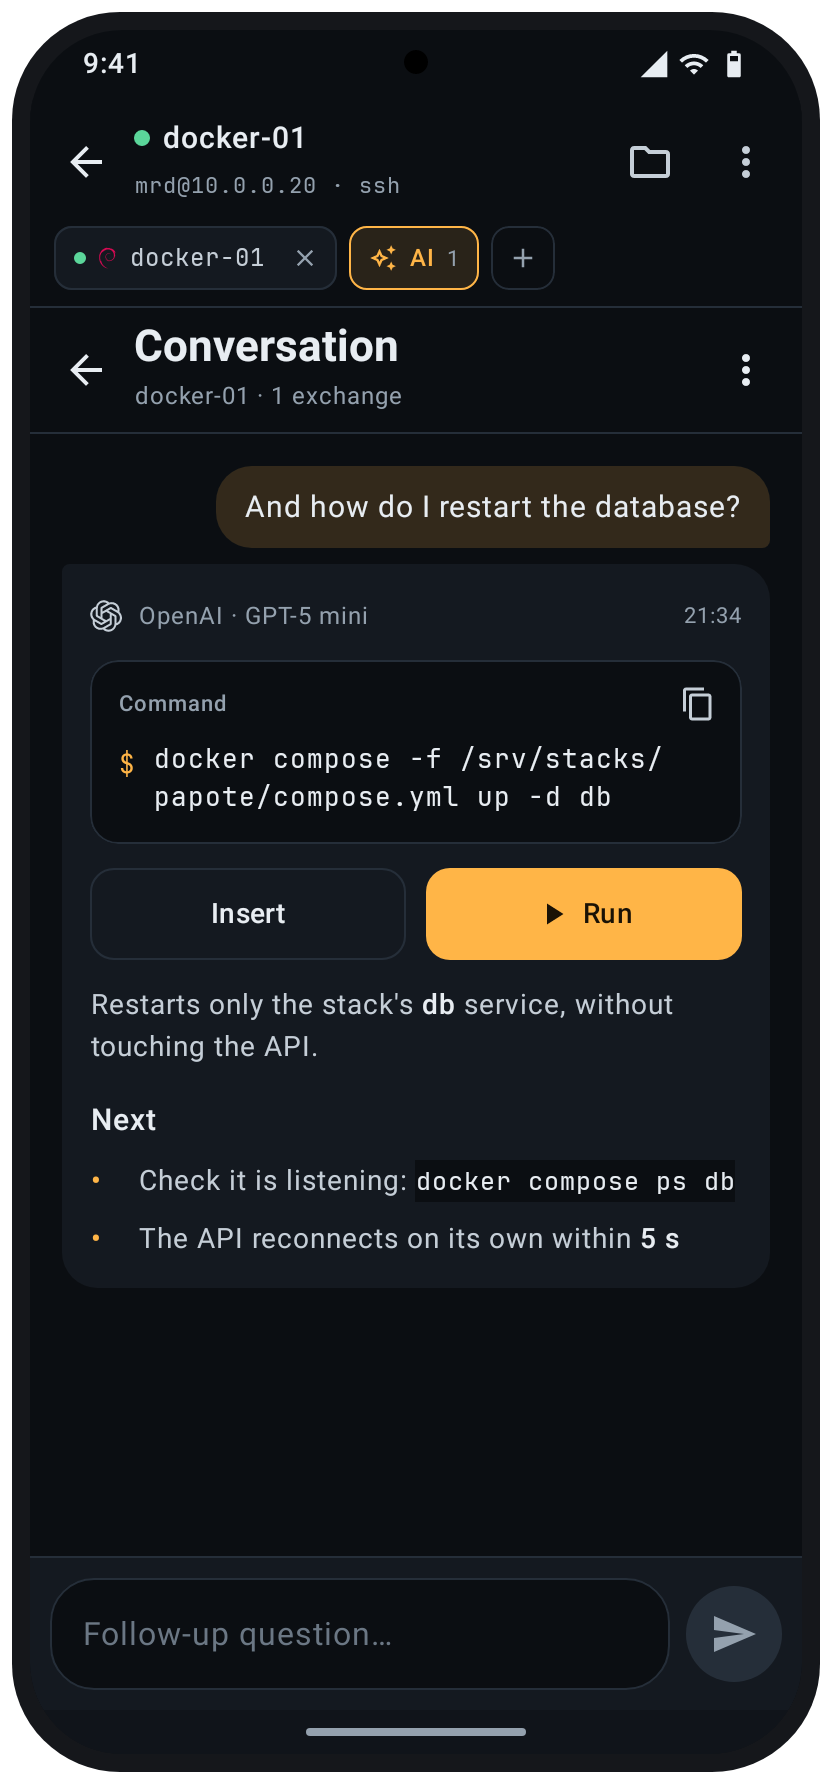
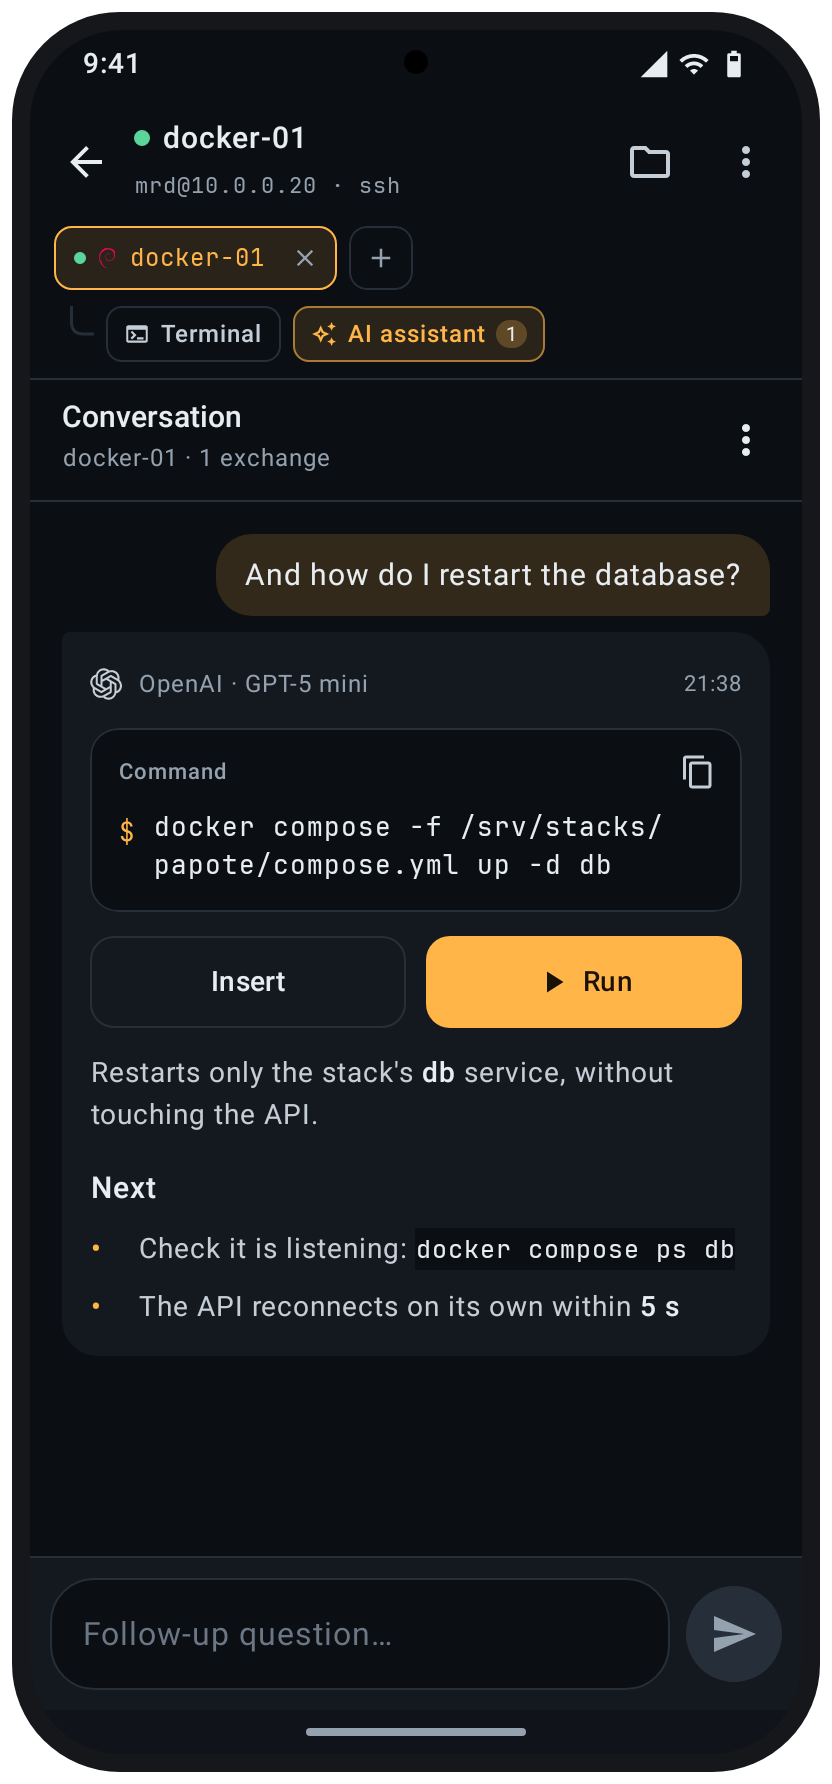
Assistant conversation as a sub-tab under its session
The terminal shows a second row under the session tabs, for the selected
session: « Terminal » and « Assistant IA » with its count, joined to the
tab above by a corner line. The embedded conversation has a compact
header.

diff --git a/app/src/main/java/com/nautile/app/ui/terminal/TerminalScreen.kt b/app/src/main/java/com/nautile/app/ui/terminal/TerminalScreen.kt
@@ -8,6 +8,9 @@ import com.nautile.i18n.tr
 
 import androidx.compose.foundation.BorderStroke
 import androidx.compose.foundation.background
+import androidx.compose.ui.graphics.Color
+import androidx.compose.ui.semantics.selected
+import androidx.compose.material.icons.outlined.Terminal
 import androidx.compose.material.icons.outlined.AutoAwesome
 import com.nautile.app.session.aiKey
 import androidx.compose.foundation.layout.width
@@ -406,7 +409,7 @@ private fun Tabs(
         ) {
             sessions.forEach { s ->
                 item(key = s.id) {
-                    val on = s.id == currentId && aiShown != s.id
+                    val on = s.id == currentId
                     val st by s.state.collectAsState()
                     Surface(
                         onClick = { onPick(s.id) },
@@ -427,27 +430,6 @@ private fun Tabs(
                         }
                     }
                 }
-                // The server's assistant conversation, as a tab right after its session.
-                if (aiShown == s.id || ai.conversation(s.aiKey).value.isNotEmpty()) item(key = "ai-${s.id}") {
-                    val on = aiShown == s.id
-                    val turns by ai.conversation(s.aiKey).collectAsState()
-                    Surface(
-                        onClick = { onPickAi(s.id) },
-                        shape = RoundedCornerShape(9.dp),
-                        color = if (on) Nt.Accent.copy(alpha = 0.12f) else Nt.Surface,
-                        border = BorderStroke(1.dp, if (on) Nt.Accent else Nt.Border),
-                        modifier = Modifier.height(32.dp).semantics { contentDescription = tr("Conversation avec l'assistant sur %1\$s", s.alias) },
-                    ) {
-                        Row(Modifier.padding(horizontal = 10.dp), verticalAlignment = Alignment.CenterVertically, horizontalArrangement = Arrangement.spacedBy(6.dp)) {
-                            Icon(Icons.Outlined.AutoAwesome, contentDescription = null, tint = if (on) Nt.Accent else Nt.TextSoft, modifier = Modifier.size(14.dp))
-                            Text(
-                                if (sessions.count { x -> ai.conversation(x.aiKey).value.isNotEmpty() || aiShown == x.id } > 1) tr("IA · %1\$s", s.alias) else tr("IA"),
-                                fontSize = 12.sp, color = if (on) Nt.Accent else Nt.TextSoft, fontWeight = FontWeight.SemiBold,
-                            )
-                            if (turns.isNotEmpty()) Text("${turns.size}", style = com.nautile.app.ui.common.Centered.copy(fontSize = 11.sp), color = Nt.Muted)
-                        }
-                    }
-                }
             }
             item {
                 Box(
@@ -458,7 +440,49 @@ private fun Tabs(
                 }
             }
         }
+        // Sub-tabs of the selected session: its terminal and its assistant conversation.
+        sessions.firstOrNull { it.id == currentId }?.let { cur ->
+            val turns by ai.conversation(cur.aiKey).collectAsState()
+            if (turns.isNotEmpty() || aiShown == cur.id) Row(
+                Modifier.fillMaxWidth().padding(start = 20.dp, end = 12.dp, bottom = 8.dp),
+                verticalAlignment = Alignment.CenterVertically, horizontalArrangement = Arrangement.spacedBy(6.dp),
+            ) {
+                // A small corner, so the row reads as belonging to the tab above.
+                val line = Nt.Border
+                androidx.compose.foundation.Canvas(Modifier.size(width = 12.dp, height = 28.dp)) {
+                    val w = 1.5.dp.toPx(); val r = 6.dp.toPx(); val mid = size.height / 2
+                    val path = androidx.compose.ui.graphics.Path().apply {
+                        moveTo(w / 2, 0f); lineTo(w / 2, mid - r)
+                        quadraticTo(w / 2, mid, w / 2 + r, mid); lineTo(size.width, mid)
+                    }
+                    drawPath(path, line, style = androidx.compose.ui.graphics.drawscope.Stroke(width = w))
+                }
+                SubTab(Icons.Outlined.Terminal, tr("Terminal"), null, selected = aiShown != cur.id) { onPick(cur.id) }
+                SubTab(Icons.Outlined.AutoAwesome, tr("Assistant IA"), turns.size.takeIf { it > 0 }, selected = aiShown == cur.id) { onPickAi(cur.id) }
+            }
+        }
         HorizontalDivider(color = Nt.Border)
+    }
+}
+
+@Composable
+private fun SubTab(icon: androidx.compose.ui.graphics.vector.ImageVector, label: String, count: Int?, selected: Boolean, onClick: () -> Unit) {
+    Surface(
+        onClick = onClick, shape = RoundedCornerShape(8.dp),
+        color = if (selected) Nt.Accent.copy(alpha = 0.12f) else Color.Transparent,
+        border = BorderStroke(1.dp, if (selected) Nt.Accent.copy(alpha = 0.6f) else Nt.Border),
+        modifier = Modifier.height(28.dp).semantics { this.selected = selected },
+    ) {
+        Row(Modifier.padding(horizontal = 9.dp), verticalAlignment = Alignment.CenterVertically, horizontalArrangement = Arrangement.spacedBy(5.dp)) {
+            Icon(icon, contentDescription = null, tint = if (selected) Nt.Accent else Nt.TextSoft, modifier = Modifier.size(13.dp))
+            Text(label, fontSize = 12.sp, color = if (selected) Nt.Accent else Nt.TextSoft, fontWeight = FontWeight.SemiBold)
+            count?.let {
+                Box(
+                    Modifier.clip(RoundedCornerShape(7.dp)).background(if (selected) Nt.Accent.copy(alpha = 0.25f) else Nt.Surface).padding(horizontal = 5.dp, vertical = 1.dp),
+                    contentAlignment = Alignment.Center,
+                ) { Text("$it", style = com.nautile.app.ui.common.Centered.copy(fontSize = 10.sp), color = if (selected) Nt.Text else Nt.Muted) }
+            }
+        }
     }
 }
 

diff --git a/app/src/main/java/com/nautile/app/ui/terminal/AssistantConversation.kt b/app/src/main/java/com/nautile/app/ui/terminal/AssistantConversation.kt
@@ -117,9 +117,9 @@ internal fun ConversationContent(session: ActiveSession, onClose: () -> Unit, on
     Column(if (embedded) Modifier.fillMaxSize() else Modifier.fillMaxSize().statusBarsPadding().navigationBarsPadding().imePadding()) {
         // Top bar
         Row(Modifier.fillMaxWidth().padding(start = 4.dp, end = 4.dp, top = 6.dp, bottom = 6.dp), verticalAlignment = Alignment.CenterVertically) {
-            IconButton(onClick = onClose) { Icon(Icons.AutoMirrored.Filled.ArrowBack, contentDescription = if (embedded) tr("Retour au terminal") else tr("Retour"), tint = Nt.Text) }
-            Column(Modifier.weight(1f)) {
-                Text(tr("Conversation"), style = MaterialTheme.typography.titleLarge)
+            if (!embedded) IconButton(onClick = onClose) { Icon(Icons.AutoMirrored.Filled.ArrowBack, contentDescription = tr("Retour"), tint = Nt.Text) }
+            Column(Modifier.weight(1f).padding(start = if (embedded) 12.dp else 0.dp)) {
+                Text(tr("Conversation"), style = if (embedded) MaterialTheme.typography.titleMedium else MaterialTheme.typography.titleLarge)
                 Text(
                     "${session.alias} · " + if (turns.size == 1) tr("1 échange") else tr("%1\$s échanges", turns.size),
                     color = Nt.Muted, fontSize = 12.sp,

diff --git a/app/src/test/java/com/nautile/app/screenshots/ScreenshotTest.kt b/app/src/test/java/com/nautile/app/screenshots/ScreenshotTest.kt
@@ -337,7 +337,7 @@ class ScreenshotTest {
         ))
         compose.setContent { NautileTheme { PhoneFrame { TerminalScreen(1, onBack = {}, onNewSession = {}, onSftp = {}, onMonitor = {}) } } }
         idle()
-        compose.onNodeWithContentDescription(tr("Conversation avec l'assistant sur %1\$s", "docker-01")).performClick()
+        compose.onNodeWithText(tr("Assistant IA")).performClick()
         shoot("terminal-ai")
     }
 
